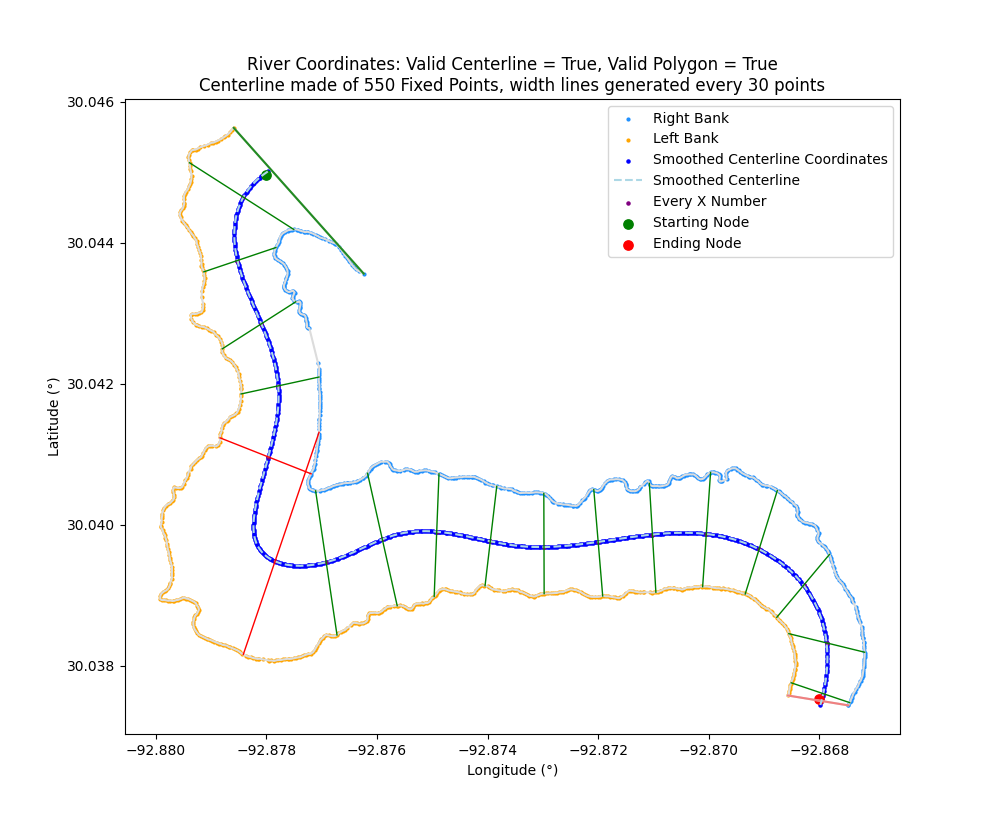
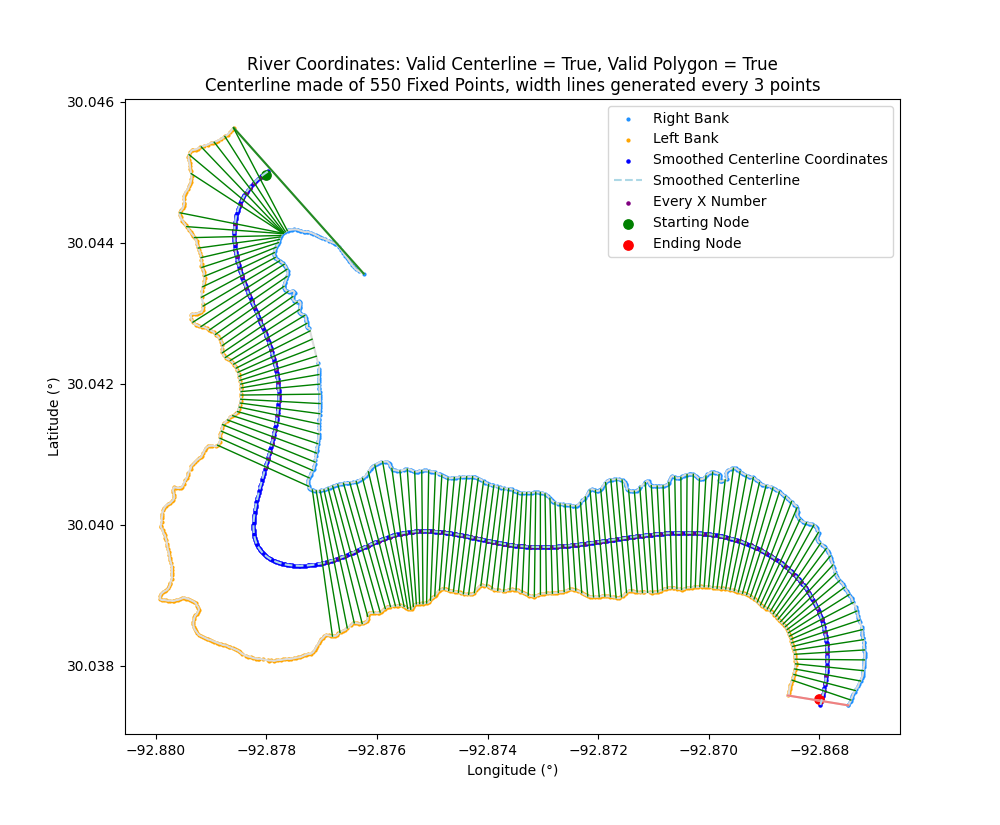
when number of intersections == 1, remove the longer width line

Changed region(s): [[0.186, 0.1515, 0.868, 0.8485], [0.186, 0.0909, 0.837, 0.1212]]

diff --git a/centerline_width/centerline.py b/centerline_width/centerline.py
@@ -226,7 +226,7 @@ def riverWidthFromCenterlineCoordinates(csv_data=None,
 	
 	# Determine lines that have multiple intersections to flag/remove
 	all_linestrings = []
-	linestring_with_centerlines = {} # TODOODODO: replace when can figure out how to decompose LineString into two points
+	linestring_with_centerlines = {}
 	linestring_with_linestrings_that_intersect = {} # dictionary of all the linestrings that a linestring intersects with
 	# Generate a list of linestrings
 	for centerline_coord in right_width_coordinates.keys():
@@ -247,40 +247,41 @@ def riverWidthFromCenterlineCoordinates(csv_data=None,
 							linestring_with_linestrings_that_intersect[linestring_to_check] = []
 						linestring_with_linestrings_that_intersect[linestring_to_check].append(linestring_to_check_against)
 
-	# Remove Intersection lines
+	# Remove Intersection Lines
 	if remove_intersections:
 		# iterate from the most intersections to the least intersections
 		for linestring_most_interactions in sorted(linestring_with_linestrings_that_intersect, key=lambda k: len(linestring_with_linestrings_that_intersect[k]), reverse=True):
-			#print(dict((k, v) for k, v in num_intersection_coordinates.items() if v > 0))
 
 			# when number of intersections > 1, remove lines with the most interactions, to the smallest
 			if num_intersection_coordinates[linestring_with_centerlines[linestring_most_interactions]] > 1: 
 				lst_linestrings_hit_by_linestring = linestring_with_linestrings_that_intersect[linestring_most_interactions]
 				# iterate through each and remove linestring from the associated lists of places it intersects
 				for linestring_hit in lst_linestrings_hit_by_linestring: 
+					# remove linestring with most intersections from all linestrings that it hits
 					linestring_with_linestrings_that_intersect[linestring_hit].remove(linestring_most_interactions)
+					# decrease intersecetions by 1 after removing linestring, from both the linestring and the places it intersects
 					num_intersection_coordinates[linestring_with_centerlines[linestring_most_interactions]] -= 1
 					num_intersection_coordinates[linestring_with_centerlines[linestring_hit]] -= 1
+				# remove linestring that intersects the most linestrings
 				centerline_of_removed_line = linestring_with_centerlines[linestring_most_interactions]
 				del right_width_coordinates[centerline_of_removed_line] # remove coordinates that result in the interactions
 				del left_width_coordinates[centerline_of_removed_line] # remove coordinates coordinates that result in the interactions
 
 			# when number of intersections == 1, remove the longer width line
-			'''
 			if num_intersection_coordinates[linestring_with_centerlines[linestring_most_interactions]] == 1: 
-				pass
-				break
-				if len(linestring_with_linestrings_that_intersect[linestring_most_interactions]):
-					pass
-				print("\nline start = {0}".format(linestring_most_interactions))
-				print(len(linestring_with_linestrings_that_intersect[linestring_most_interactions]))
-				print(num_intersection_coordinates[linestring_with_centerlines[linestring_most_interactions]])
-				for i in linestring_with_linestrings_that_intersect[linestring_most_interactions]:
-					print(i)
-				print("\n")
-			'''
+				linestring_1 = linestring_most_interactions
+				linestring_2 = linestring_with_linestrings_that_intersect[linestring_most_interactions][0]
+				# remove linestring that is longer
+				if linestring_1.length >= linestring_2.length:
+					centerline_of_removed_line = linestring_with_centerlines[linestring_1]
+				else:
+					centerline_of_removed_line = linestring_with_centerlines[linestring_2]
+				# decrease intersecetions by 1 after removing linestring, from both the linestring and the places it intersects
+				num_intersection_coordinates[linestring_with_centerlines[linestring_1]] -= 1
+				num_intersection_coordinates[linestring_with_centerlines[linestring_2]] -= 1
+				del right_width_coordinates[centerline_of_removed_line] # remove coordinates that result in the interactions
+				del left_width_coordinates[centerline_of_removed_line] # remove coordinates coordinates that result in the interactions
 
-	print(dict((k, v) for k, v in num_intersection_coordinates.items() if v > 0))
 	return right_width_coordinates, left_width_coordinates, num_intersection_coordinates
 
 def riverWidthFromCenterline(csv_data=None, centerline_coordinates=None, bank_polygon=None, save_to_csv=None, optional_cutoff=None):

diff --git a/river_centerline_width_example.py b/river_centerline_width_example.py
@@ -35,7 +35,7 @@ if __name__ == "__main__":
 										save_plot_name="data/river_coords_width.png", 
 										displayTrueCenterline=False,
 										n_interprolate_centerpoints=None,
-										transect_span_distance=30,
+										transect_span_distance=3,
 										apply_smoothing=True,
 										flag_intersections=True,
 										remove_intersections=True,
